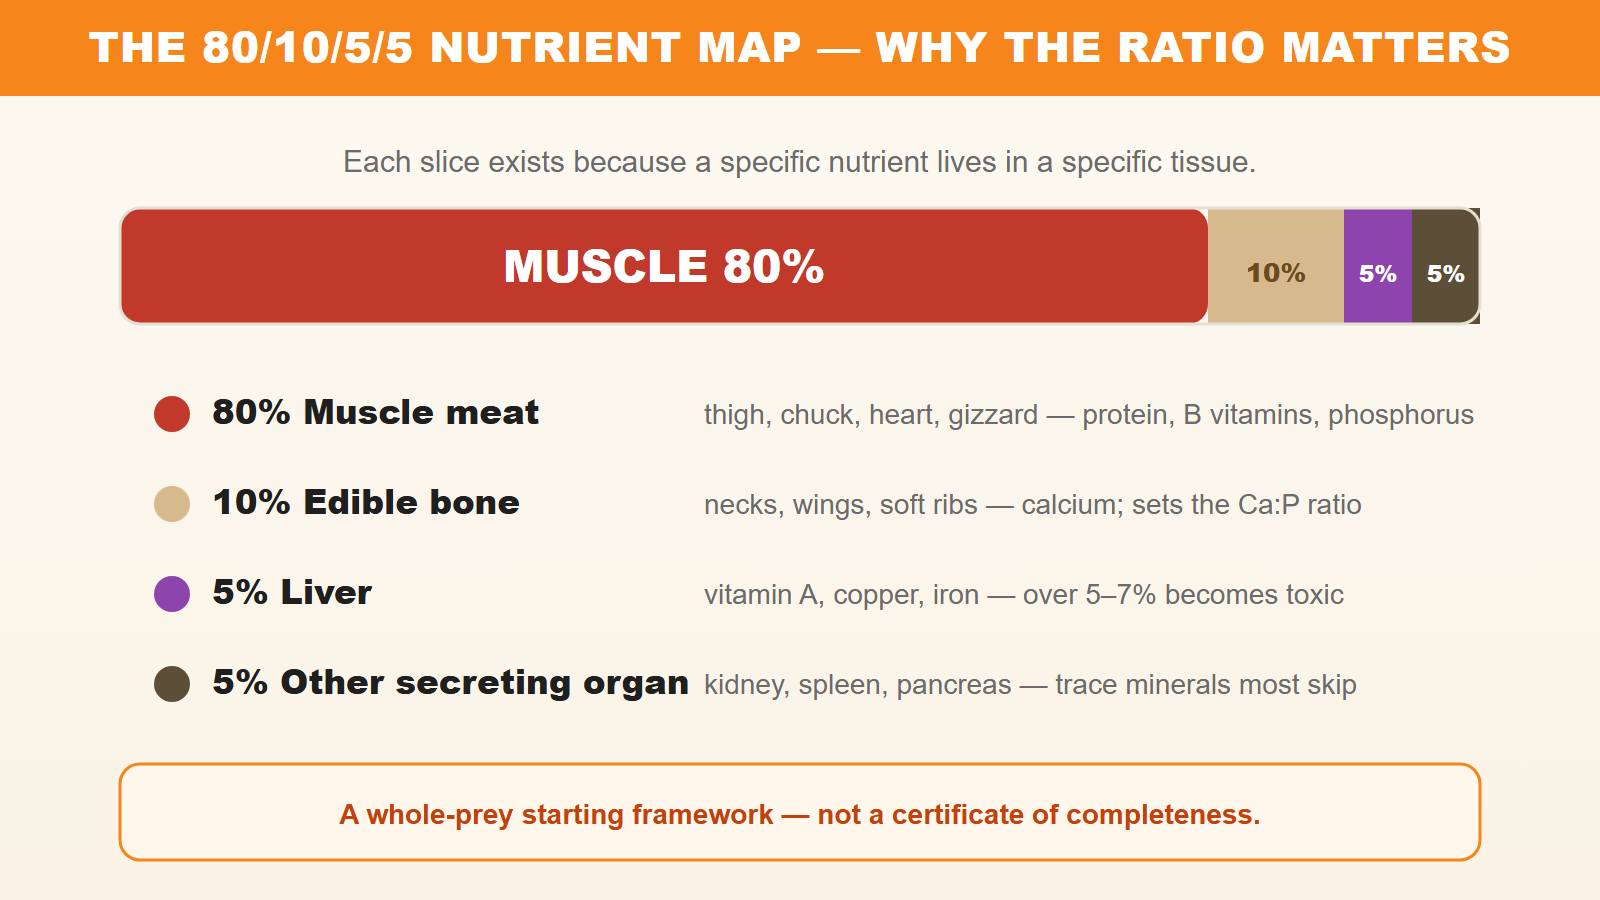
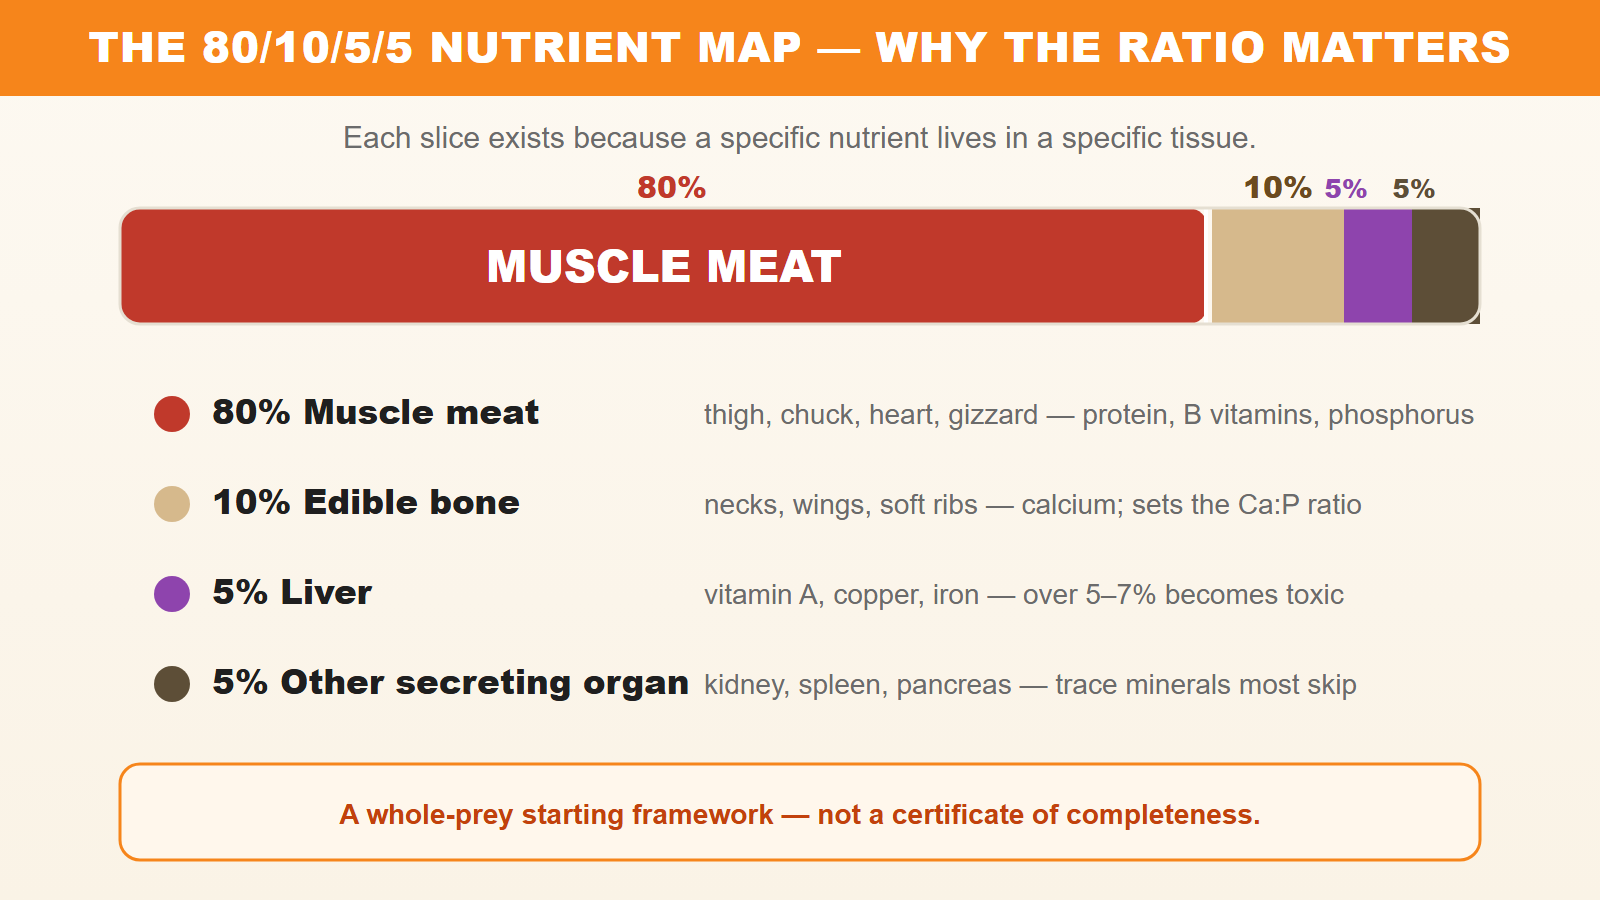
Fix overlapping percent labels in raw-feeding-ratio infographic
- Narrow-segment in-bar labels (10%/5%/5%) removed (they collided visually against the 80% segment)
- Percents moved to a clean label row above the stacked bar; segments separated by white seams
- Red segment label simplified to 'MUSCLE MEAT'; legend rows carry the ratios
- Re-uploaded as -v2.png (new key, no cache issue), article reference updated, CDN 200 verified

diff --git a/how-to-start-raw-feeding.html b/how-to-start-raw-feeding.html
@@ -70,7 +70,7 @@
             <p data-page-node-id="G9jk14Es775nyoy9LEG8nh"><strong data-page-node-id="POIB1YTSHBeH3O7KOyspRC">The 5% liver</strong> —vitamin A, copper, and iron. Liver is so concentrated that going over ~5-7% causes vitamin A toxicity over months. Going under causes deficiency. Both are real, and both are slow.</p>
             <p data-page-node-id="zjZvXAtAQBC9YNdkS7aE2l"><strong data-page-node-id="0hpKcRJGJR9Ng5ZVoWowiR">The 5% other secreting organ</strong> —kidney, spleen, pancreas, brain —provides things muscle and liver don't have enough of. This is the bucket most beginners skip, and it's the one that quietly matters for long-term mineral balance.</p>
             <p data-page-node-id="2qVc6McxDVgIZ6YK8iW6kW">This is also why "I feed my dog raw chicken breast and broccoli" isn't raw feeding —it's an unbalanced homemade diet with extra steps. If you only remember one sentence from this guide: <strong data-page-node-id="FtL77v17gfk5rNrdM7LStz">a raw diet is a ratio, not an ingredient list.</strong></p>
-            <figure style="margin:20px 0;text-align:center;"><img src="https://cdn.meltpet.com/article/raw-feeding-ratio.png" alt="Raw feeding 80/10/5/5 nutrient map: 80% muscle meat, 10% edible bone, 5% liver, 5% other secreting organ, with the nutrient role of each tissue" width="800" height="450" style="max-width:100%;height:auto;border-radius:10px;display:block;margin:0 auto;" loading="lazy"><figcaption style="font-size:0.82rem;color:var(--text-muted,#6B6B6B);margin-top:6px;">The 80/10/5/5 framework: each slice exists because a specific nutrient lives in a specific tissue.</figcaption></figure>
+            <figure style="margin:20px 0;text-align:center;"><img src="https://cdn.meltpet.com/article/raw-feeding-ratio-v2.png" alt="Raw feeding 80/10/5/5 nutrient map: 80% muscle meat, 10% edible bone, 5% liver, 5% other secreting organ, with the nutrient role of each tissue" width="800" height="450" style="max-width:100%;height:auto;border-radius:10px;display:block;margin:0 auto;" loading="lazy"><figcaption style="font-size:0.82rem;color:var(--text-muted,#6B6B6B);margin-top:6px;">The 80/10/5/5 framework: each slice exists because a specific nutrient lives in a specific tissue.</figcaption></figure>
         </article>
 
         <article class="article-section" data-page-node-id="HsVhxyQpBdtTY220ypqYtR">
